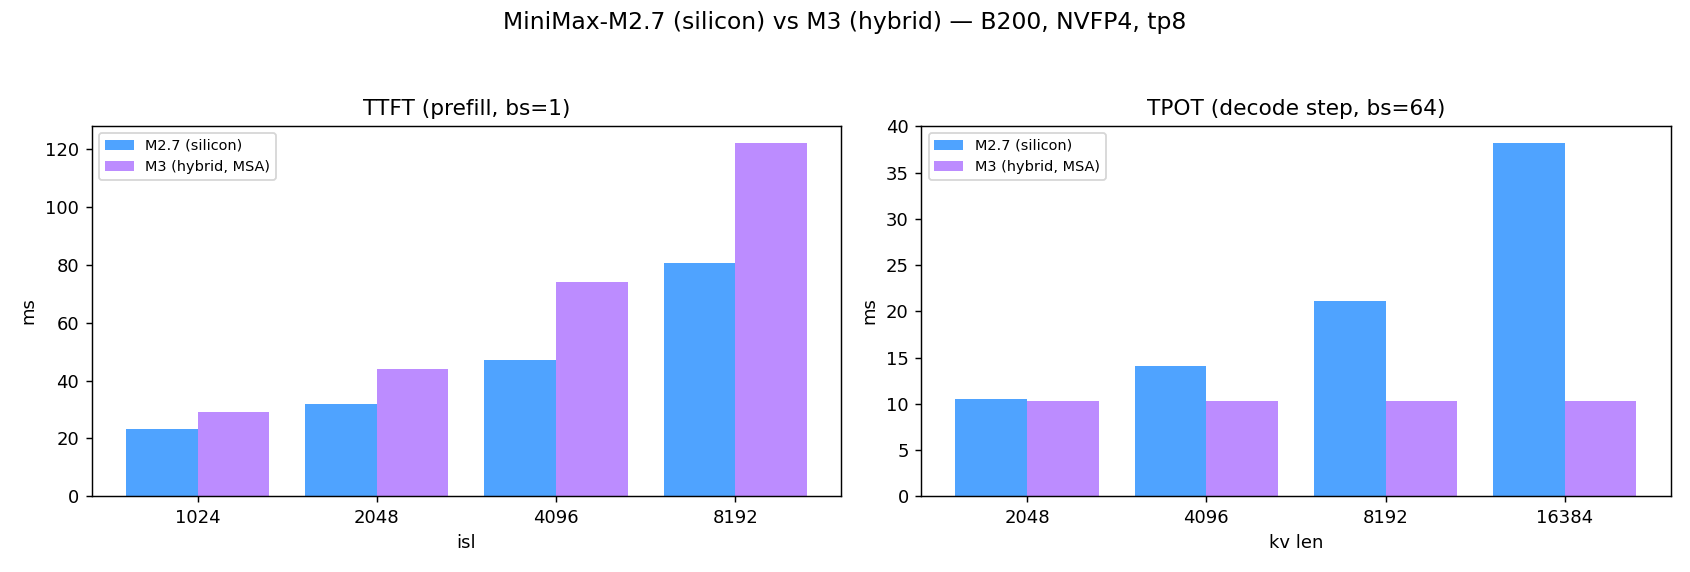
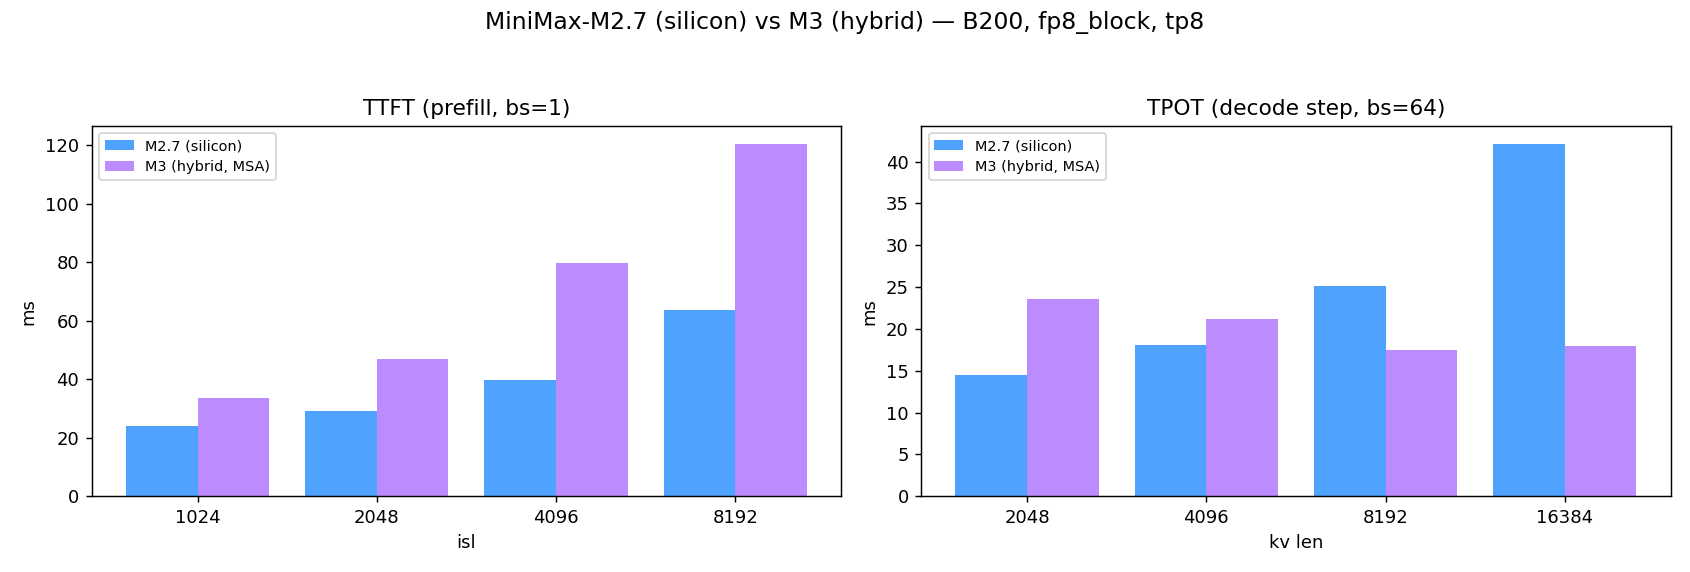
docs(m3): switch M2.7-vs-M3 comparison to fp8_block (faithful DSA transfer)
b200 has no NVFP4 DSA data, so under NVFP4 the M3 MSA transfer silently
falls back to a constant. fp8_block has DSA silicon, so the transfer is
real and M2.7 has fp8_block silicon too — apples-to-apples. Shows the
~6k crossover: M2.7 full attn grows 14.5->42ms, M3 MSA flat ~18-24ms.

diff --git a/docs/design/minimax_m3_msa_support.html b/docs/design/minimax_m3_msa_support.html
@@ -142,56 +142,56 @@ needed k≈1.41). TTFT not compared directly — sglang's 1580 ms is concurrency
 single-prompt context ≈ 47 ms, which needs serving-level (continuous-batching) modeling.</p>
 
 <!-- 6 -->
-<h2>6 · MiniMax-M2.7 vs M3 on the same B200 (NVFP4)</h2>
-<p>A direct apples-to-apples on b200/trtllm, tp8, NVFP4: <strong>M2.7 in SILICON</strong> (MOE + full
-GQA attention, has data) vs <strong>M3 in pure HYBRID</strong> (MoE + MSA; MSA transferred from DSA).
-M3 is the larger model (hidden 6144 vs 3072, 64 vs 48 heads) so prefill is heavier; but its MSA
-sparse attention caps the decode KV at the top-2048 selection, so <strong>TPOT stays flat as context
-grows</strong> while M2.7's full attention grows linearly.</p>
-<p class="note wn"><b>Caveat:</b> b200 has no NVFP4 DSA data, so under NVFP4 the M3 MSA transfer falls
-back to the constant (SOL/0.5), not DSA's util — that is why the NVFP4 M3 decode below is a suspiciously
-exact flat line. The faithful (DSA-transfer) M3 decode uses fp8_block; see the sanity check in 6.1.</p>
+<h2>6 · MiniMax-M2.7 vs M3 on the same B200 (fp8_block)</h2>
+<p>A direct apples-to-apples on b200/trtllm, tp8, <strong>fp8_block</strong>: <strong>M2.7 in
+SILICON</strong> (MOE + full GQA attention) vs <strong>M3 in pure HYBRID</strong> (MoE + MSA, MSA
+transferred from DSA). fp8_block is used because <strong>b200 has no NVFP4 DSA data</strong> — under
+NVFP4 the MSA transfer would silently fall back to a constant; fp8_block has DSA data so the transfer
+is real (and M2.7 has fp8_block silicon too). M3 is the larger model (hidden 6144 vs 3072, 64 vs 48
+heads) so prefill and short-context decode are heavier, but its MSA caps decode KV at the top-2048
+selection, so <strong>TPOT stays flat as context grows</strong> while M2.7's full attention grows
+linearly — they cross around ~6k.</p>
 
 <table>
-  <tr><th>workload</th><th class="num">M2.7 (silicon)</th><th class="num">M3 (hybrid)</th><th class="num">M3 / M2.7</th></tr>
-  <tr><td>TTFT prefill, isl 2048</td><td class="num">31.7 ms</td><td class="num">44.1 ms</td><td class="num wn">1.39</td></tr>
-  <tr><td>TTFT prefill, isl 8192</td><td class="num">80.5 ms</td><td class="num">122.0 ms</td><td class="num wn">1.52</td></tr>
-  <tr><td>TPOT decode, kv 2048</td><td class="num">10.55 ms</td><td class="num">10.28 ms</td><td class="num">0.97</td></tr>
-  <tr><td>TPOT decode, kv 8192</td><td class="num">21.14 ms</td><td class="num">10.31 ms</td><td class="num ok">0.49</td></tr>
-  <tr><td>TPOT decode, kv 16384</td><td class="num">38.16 ms</td><td class="num">10.34 ms</td><td class="num ok">0.27</td></tr>
+  <tr><th>workload</th><th class="num">M2.7 (silicon)</th><th class="num">M3 (hybrid, real transfer)</th><th class="num">M3 / M2.7</th></tr>
+  <tr><td>TTFT prefill, isl 2048</td><td class="num">29.2 ms</td><td class="num">47.0 ms</td><td class="num wn">1.61</td></tr>
+  <tr><td>TTFT prefill, isl 8192</td><td class="num">63.8 ms</td><td class="num">120.5 ms</td><td class="num wn">1.89</td></tr>
+  <tr><td>TPOT decode, kv 2048</td><td class="num">14.5 ms</td><td class="num">23.6 ms</td><td class="num wn">1.62</td></tr>
+  <tr><td>TPOT decode, kv 4096</td><td class="num">18.1 ms</td><td class="num">21.2 ms</td><td class="num">1.17</td></tr>
+  <tr><td>TPOT decode, kv 8192</td><td class="num">25.1 ms</td><td class="num">17.5 ms</td><td class="num ok">0.70</td></tr>
+  <tr><td>TPOT decode, kv 16384</td><td class="num">42.1 ms</td><td class="num">17.9 ms</td><td class="num ok">0.43</td></tr>
 </table>
 
-<h3>TPOT vs context length (bs=64)</h3>
+<h3>TPOT vs context length (bs=64) — the crossover</h3>
 <svg viewBox="0 0 760 280" role="img" aria-label="TPOT vs kv">
   <line x1="60" y1="240" x2="720" y2="240" stroke="#2b333d"/>
   <line x1="60" y1="240" x2="60" y2="30" stroke="#2b333d"/>
   <text x="30" y="135" fill="#9aa7b4" font-size="11" transform="rotate(-90 30 135)" text-anchor="middle">TPOT (ms)</text>
   <text x="390" y="268" fill="#9aa7b4" font-size="11" text-anchor="middle">kv length</text>
-  <!-- y ticks 0,10,20,30,40 -->
   <text x="52" y="243" fill="#9aa7b4" font-size="10" text-anchor="end">0</text>
-  <text x="52" y="190" fill="#9aa7b4" font-size="10" text-anchor="end">10</text>
-  <text x="52" y="138" fill="#9aa7b4" font-size="10" text-anchor="end">20</text>
-  <text x="52" y="86" fill="#9aa7b4" font-size="10" text-anchor="end">30</text>
-  <text x="52" y="40" fill="#9aa7b4" font-size="10" text-anchor="end">40</text>
-  <!-- x labels at 60,220,380,540,700 for 2048,4096,8192,16384 -->
+  <text x="52" y="196" fill="#9aa7b4" font-size="10" text-anchor="end">10</text>
+  <text x="52" y="150" fill="#9aa7b4" font-size="10" text-anchor="end">20</text>
+  <text x="52" y="103" fill="#9aa7b4" font-size="10" text-anchor="end">30</text>
+  <text x="52" y="56" fill="#9aa7b4" font-size="10" text-anchor="end">40</text>
   <text x="150" y="256" fill="#9aa7b4" font-size="10" text-anchor="middle">2048</text>
   <text x="340" y="256" fill="#9aa7b4" font-size="10" text-anchor="middle">4096</text>
   <text x="530" y="256" fill="#9aa7b4" font-size="10" text-anchor="middle">8192</text>
   <text x="700" y="256" fill="#9aa7b4" font-size="10" text-anchor="middle">16384</text>
-  <!-- y = 240 - ms*5.25 ; x = 150,340,530,700 -->
-  <!-- M2.7: 10.55,14.08,21.14,38.16 -->
-  <polyline points="150,185 340,166 530,129 700,40" fill="none" stroke="#4fa3ff" stroke-width="2.5"/>
-  <circle cx="150" cy="185" r="3" fill="#4fa3ff"/><circle cx="340" cy="166" r="3" fill="#4fa3ff"/><circle cx="530" cy="129" r="3" fill="#4fa3ff"/><circle cx="700" cy="40" r="3" fill="#4fa3ff"/>
-  <!-- M3: 10.28,10.29,10.31,10.34 (flat ~186) -->
-  <polyline points="150,186 340,186 530,186 700,186" fill="none" stroke="#bc8cff" stroke-width="2.5"/>
-  <circle cx="150" cy="186" r="3" fill="#bc8cff"/><circle cx="340" cy="186" r="3" fill="#bc8cff"/><circle cx="530" cy="186" r="3" fill="#bc8cff"/><circle cx="700" cy="186" r="3" fill="#bc8cff"/>
-  <text x="660" y="55" fill="#4fa3ff" font-size="12">M2.7 (full attn)</text>
-  <text x="560" y="178" fill="#bc8cff" font-size="12">M3 (MSA, flat)</text>
+  <!-- y = 240 - ms*4.667 ; x = 150,340,530,700 -->
+  <!-- M2.7: 14.5,18.1,25.1,42.1 -->
+  <polyline points="150,172 340,156 530,123 700,43" fill="none" stroke="#4fa3ff" stroke-width="2.5"/>
+  <circle cx="150" cy="172" r="3" fill="#4fa3ff"/><circle cx="340" cy="156" r="3" fill="#4fa3ff"/><circle cx="530" cy="123" r="3" fill="#4fa3ff"/><circle cx="700" cy="43" r="3" fill="#4fa3ff"/>
+  <!-- M3: 23.6,21.2,17.5,17.9 -->
+  <polyline points="150,130 340,141 530,158 700,156" fill="none" stroke="#bc8cff" stroke-width="2.5"/>
+  <circle cx="150" cy="130" r="3" fill="#bc8cff"/><circle cx="340" cy="141" r="3" fill="#bc8cff"/><circle cx="530" cy="158" r="3" fill="#bc8cff"/><circle cx="700" cy="156" r="3" fill="#bc8cff"/>
+  <text x="600" y="35" fill="#4fa3ff" font-size="12">M2.7 (full attn, grows)</text>
+  <text x="560" y="150" fill="#bc8cff" font-size="12">M3 (MSA, flat)</text>
 </svg>
-<p class="note">M3's MSA decode is context-independent (top-k cap) — at kv 16384 M3 is <strong>3.7×</strong>
-faster per token than M2.7's full attention. The hybrid M3 reproduces this purely from the MSA SOL
-(pairs capped at index_topk) + DSA-transferred util; no MSA measurements. Figure:
-<code>poc/hybrid_util/compare_m27_m3.png</code>.</p>
+<p class="note">M2.7's full attention grows with kv (14.5 → 42 ms); M3's MSA is context-independent
+(top-k cap, ~18–24 ms). Short context favours M2.7 (M3 is the bigger model); beyond ~6k the sparse
+MSA wins — at kv 16384 M3 is <strong>2.3×</strong> faster per token. The hybrid M3 reproduces this
+purely from the MSA SOL (pairs capped at index_topk) + the real DSA-transferred util; no MSA
+measurements. Figure: <code>poc/hybrid_util/compare_m27_m3.png</code>.</p>
 
 <h3>6.1 · Decode sanity check vs real DSA (GLM-5, SILICON)</h3>
 <p>Is M3's flat decode real, or an artifact? Cross-check against a model that <em>has</em>

diff --git a/poc/hybrid_util/compare_m27_m3.py b/poc/hybrid_util/compare_m27_m3.py
@@ -23,23 +23,22 @@ SYS, BK, VER = "b200_sxm", "trtllm", "1.3.0rc10"
 
 
 def build():
+    # fp8_block baseline: NVFP4 has no DSA silicon on b200, so M3's MSA transfer
+    # would fall back to a constant under NVFP4. fp8_block has DSA data -> the
+    # MSA transfer is real, and M2.7 has fp8_block silicon too. Apples-to-apples.
     db = get_database(SYS, BK, VER)
     be = TRTLLMBackend()
+    q = dict(
+        gemm_quant_mode=common.GEMMQuantMode.fp8_block,
+        moe_quant_mode=common.MoEQuantMode.fp8_block,
+        fmha_quant_mode=common.FMHAQuantMode.bfloat16,
+        kvcache_quant_mode=common.KVCacheQuantMode.fp8,
+    )
     m27 = get_model(
-        "nvidia/MiniMax-M2.7-NVFP4", config.ModelConfig(tp_size=8, moe_tp_size=1, moe_ep_size=8), backend_name=BK
+        "MiniMaxAI/MiniMax-M2.7", config.ModelConfig(tp_size=8, moe_tp_size=1, moe_ep_size=8, **q), backend_name=BK
     )
     m3 = get_model(
-        "MiniMaxAI/MiniMax-M3",
-        config.ModelConfig(
-            tp_size=8,
-            moe_tp_size=1,
-            moe_ep_size=8,
-            gemm_quant_mode=common.GEMMQuantMode.nvfp4,
-            moe_quant_mode=common.MoEQuantMode.nvfp4,
-            fmha_quant_mode=common.FMHAQuantMode.bfloat16,
-            kvcache_quant_mode=common.KVCacheQuantMode.fp8,
-        ),
-        backend_name=BK,
+        "MiniMaxAI/MiniMax-M3", config.ModelConfig(tp_size=8, moe_tp_size=1, moe_ep_size=8, **q), backend_name=BK
     )
     return db, be, m27, m3
 
@@ -103,7 +102,7 @@ def main():
         a.set_ylabel("ms")
         a.set_title(title)
         a.legend(fontsize=8)
-    fig.suptitle("MiniMax-M2.7 (silicon) vs M3 (hybrid) — B200, NVFP4, tp8", fontsize=13)
+    fig.suptitle("MiniMax-M2.7 (silicon) vs M3 (hybrid) — B200, fp8_block, tp8", fontsize=13)
     fig.tight_layout(rect=[0, 0, 1, 0.94])
     out = os.path.join(os.path.dirname(os.path.abspath(__file__)), "compare_m27_m3.png")
     fig.savefig(out, dpi=130)